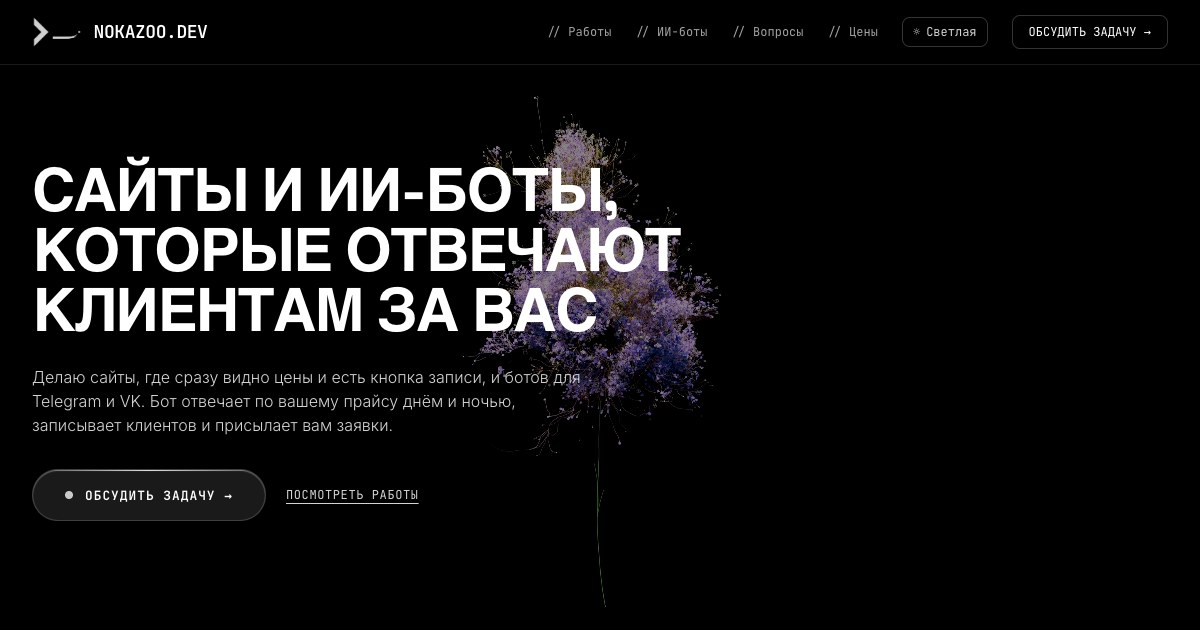
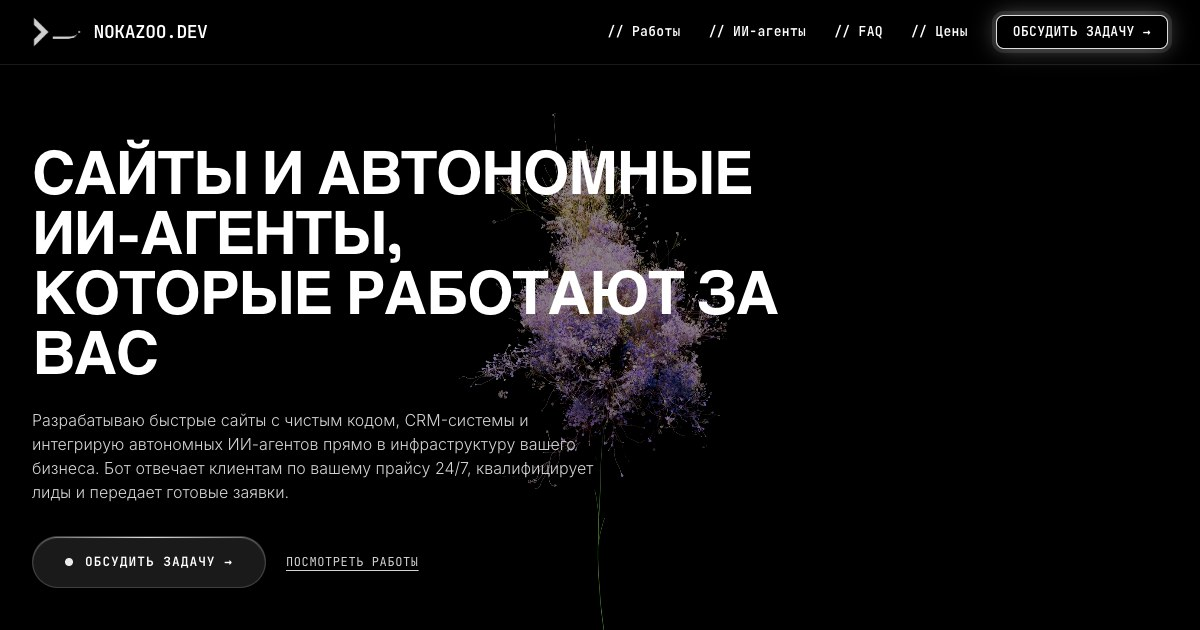
Превью og.jpg под новый заголовок, вопрос «как связаться» находит ответ

Changed region(s): [[0.0, 0.181, 0.6475, 0.9349], [0.4625, 0.0, 0.9867, 0.0905]]

diff --git a/app.js b/app.js
@@ -561,7 +561,7 @@ function initAiFaq() {
       answer: 'ИИ-агент отвечает строго по вашему прайс-листу и правилам компании. Выдумки исключены. При нестандартном вопросе или готовности записаться агент мгновенно передает диалог вам.'
     },
     {
-      keywords: ['контакт', 'связь', 'телефон', 'telegram', 'почта', 'написать', 'тг'],
+      keywords: ['контакт', 'связ', 'телефон', 'telegram', 'почта', 'написать', 'тг'],
       answer: 'Напишите мне напрямую в Telegram @nokazoodev или на почту nokazoo@yandex.ru. Отвечаю оперативно в течение 30 минут.'
     }
   ];
